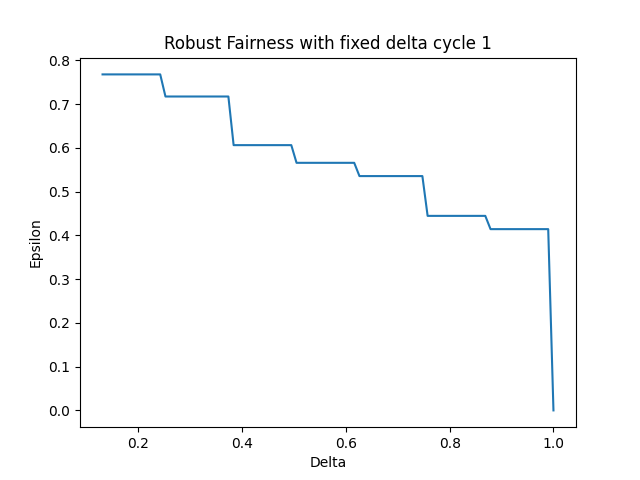
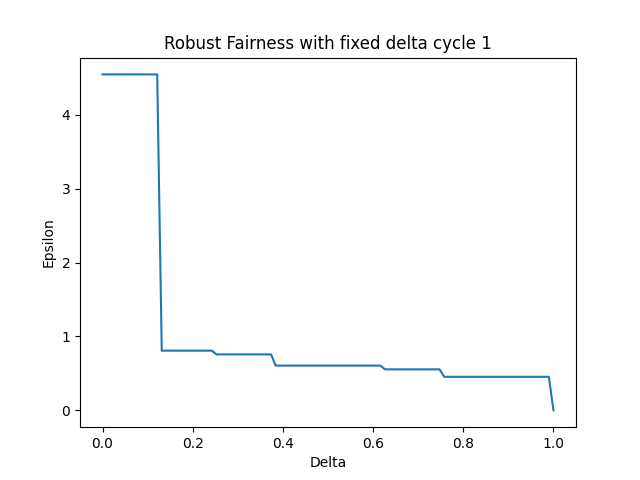
Correct plots with axis labels

diff --git a/tezos_analysis.py b/tezos_analysis.py
@@ -407,6 +407,8 @@ def plot_expecational_fairness_all_bakers_overview(start, end, lowest_x, lowest_
     y4_data = compute_fairness_percentages_average_all_cycles(start, end)
     plt.plot(x_data, y4_data, '.', color='red', label='average')
     plt.legend()
+    plt.xlabel('Cycle')
+    plt.ylabel('Absolute reward/Expected reward')
     plt.title('Expectational Fairness from cycle ' + str(start) + ' to ' + str(end))
     plt.savefig('images/expectational_fairness/expectational_fairness_cycles_' + str(start) + '_' + str(end) + '_overview' + '.png')
     plt.close()
@@ -464,7 +466,7 @@ def plot_expectational_fairness_difference(start, end, baker):
     plt.xlabel('Cycle')
     plt.ylabel('Difference actual and expected reward fraction')
     plt.title('Exp. Fairness Diff. Baker ' + baker)
-    plt.savefig('images/expectational_fairness/expectational_fairness_difference_' + str(start) + '_' + str(end) + '_baker_' + baker + '.png')
+    plt.savefig('images/expectational_fairness/' + str(start) + '_' + str(end) + '_baker_' + baker + '.png')
     plt.close()
 
 
@@ -480,7 +482,7 @@ def plot_robust_fairness(cycle):
 
     EPS = np.empty([100])
     Deltas = np.linspace(0, 1, 100)
-    Epsilons = np.linspace(0, 1, 100)
+    Epsilons = np.linspace(0, 5, 100)  # epsilon > 1 needed for very small deltas
 
     # initial_rewards a
     initial_rewards = []  # list with initial income for all the bakers
@@ -511,7 +513,6 @@ def plot_robust_fairness(cycle):
     initial_stakes = np.fromiter(initial_stakes, dtype=float)
     fractions = np.fromiter(fractions, dtype=float)
 
-    idxes = []  # need to keep track of this in order to see if there are deltas for which no eps satisfy the equation
     for idx, delta in enumerate(Deltas):
         for eps in Epsilons:
             low_eps = (1 - eps) * initial_stakes <= fractions
@@ -520,17 +521,26 @@ def plot_robust_fairness(cycle):
             Pr = sum(Freq) / len(fractions)
             if Pr >= 1 - delta:
                 EPS[idx] = eps
-                idxes.append(idx)
                 break
     print('EPS', EPS)
     print("The bakers put " + str(round(sum(initial_stakes), 4) * 100) + "% of the stakes and received " + str(
         round(sum(fractions), 4) * 100) + "% of the rewards")
-    plt.plot(Deltas[idxes[0]:], EPS[idxes[0]:])
+    plt.plot(Deltas, EPS)
     plt.title('Robust Fairness with fixed delta cycle ' + str(cycle))
     plt.xlabel('Delta')
     plt.ylabel('Epsilon')
     plt.savefig('images/robust_fairness/robust_fairness_cycle_' + str(cycle) + '.png')
     plt.close()
+
+
+def plot_nakamoto_index(cylce):
+    return
+    # TODO:
+
+
+def plot_robust_fairness_aoc():
+    # TODO: plot area under curve of robust fairness for each cycle
+    return
 
 
 if __name__ == '__main__':
@@ -591,7 +601,7 @@ if __name__ == '__main__':
     # for start, end in zip(start_cycles, end_cycles):
     #     plot_expectational_fairness_difference(start, end, baker)
 
-    plot_expectational_fairness_all_bakers_cycles_average(0, 8) # TODO: check this plot here
+    plot_expectational_fairness_all_bakers_cycles_average(0, 8)
 
     # highest x percent
     plot_expectational_fairness_all_bakers_cycles_highest_x_percent(0, 8, 0.1)
@@ -603,5 +613,6 @@ if __name__ == '__main__':
     plot_robust_fairness(1)  # we look at cycle 1 as there we have the same bakers as in cycle 0
     plot_robust_fairness(5)
 
+    # TODO: plot nakamoto index and robust fairness area under curve
     # Close connection
     con.close()
